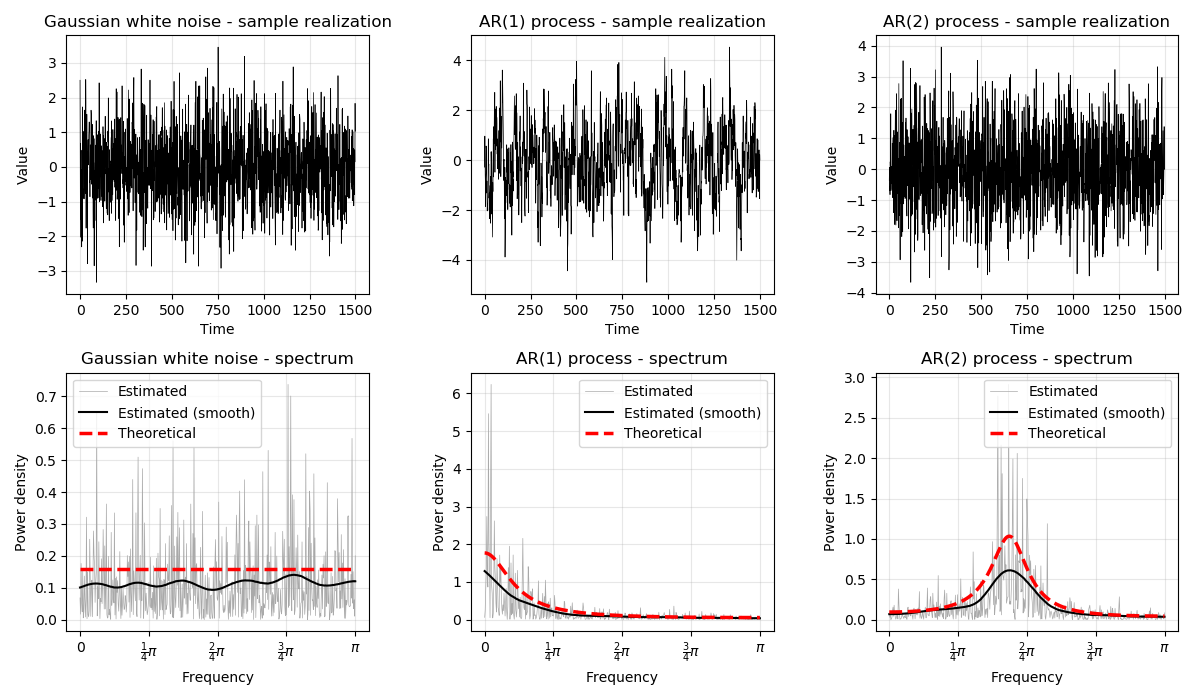
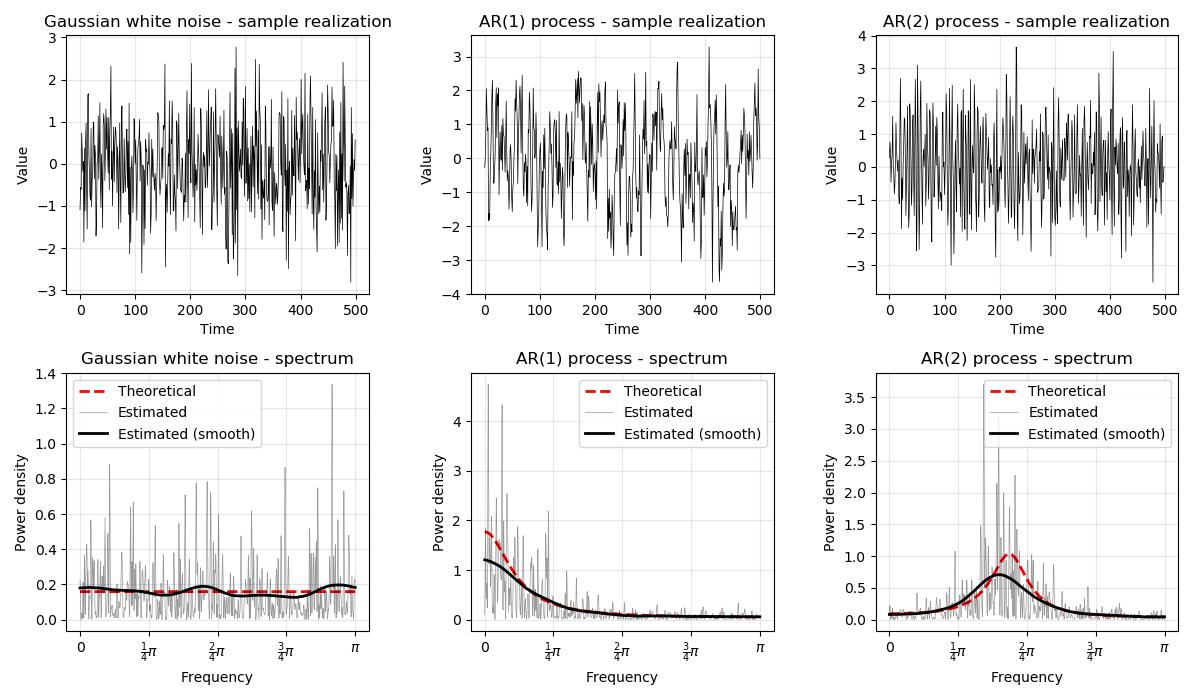
Corrected a problem with the sampling frequency VS length of the time series

diff --git a/tests/t_spectrum.py b/tests/t_spectrum.py
@@ -15,7 +15,8 @@ def gen_ar(T, coeffs):
 
 
 def main():
-    T = 1500
+    T = 500
+    N = 2048
     e = np.zeros((T,))
 
     for t in range(T):
@@ -26,16 +27,16 @@ def main():
     x = gen_ar(T, [a1])
     y = gen_ar(T, [b1, b2])
 
-    w, method = 101, 'hamming'
+    w, method = 249, 'hamming'
 
-    se = ts.spectrum(e, smooth=False)
-    sx = ts.spectrum(x, smooth=False)
-    sy = ts.spectrum(y, smooth=False)
-    sse = ts.spectrum(e, smooth=True, smooth_window=w, smooth_method=method)
-    ssx = ts.spectrum(x, smooth=True, smooth_window=w, smooth_method=method)
-    ssy = ts.spectrum(y, smooth=True, smooth_window=w, smooth_method=method)
+    se = ts.spectrum(e,  num=N, smooth=False)
+    sx = ts.spectrum(x,  num=N, smooth=False)
+    sy = ts.spectrum(y,  num=N, smooth=False)
+    sse = ts.spectrum(e, num=N, smooth=True, smooth_window=w, smooth_method=method)
+    ssx = ts.spectrum(x, num=N, smooth=True, smooth_window=w, smooth_method=method)
+    ssy = ts.spectrum(y, num=N, smooth=True, smooth_window=w, smooth_method=method)
 
-    freq = np.fft.rfftfreq(1024, d=1/(2*np.pi))
+    freq = np.fft.rfftfreq(N, d=1/(2*np.pi))
 
     tse = (1 / (2 * np.pi)) * np.ones(freq.shape)
     tsx = (1 / (2 * np.pi)) * (1 / (1 + a1 ** 2 - 2 * a1 * np.cos(freq)))
@@ -66,9 +67,9 @@ def main():
     ax[0, 2].set_ylabel('Value')
     ax[0, 2].set_title('AR(2) process - sample realization')
 
-    ax[1, 0].plot(freq, se, color='darkgray', linewidth=0.5, label='Estimated')
-    ax[1, 0].plot(freq, sse, color='black', linewidth=1.5, label='Estimated (smooth)')
-    ax[1, 0].plot(freq, tse, color='red', linewidth=2.5, linestyle='dashed', label='Theoretical')
+    ax[1, 0].plot(freq, tse, color='red', linewidth=2, linestyle='dashed', label='Theoretical')
+    ax[1, 0].plot(freq, se, color='black', alpha=0.4, linewidth=0.5, label='Estimated')
+    ax[1, 0].plot(freq, sse, color='black', linewidth=2, label='Estimated (smooth)')
     ax[1, 0].legend()
     ax[1, 0].grid(alpha=0.3)
     ax[1, 0].xaxis.set_ticks(ticks)
@@ -76,9 +77,9 @@ def main():
     ax[1, 0].set_xlabel('Frequency')
     ax[1, 0].set_ylabel('Power density')
     ax[1, 0].set_title('Gaussian white noise - spectrum')
-    ax[1, 1].plot(freq, sx, color='darkgray', linewidth=0.5, label='Estimated')
-    ax[1, 1].plot(freq, ssx, color='black', linewidth=1.5, label='Estimated (smooth)')
-    ax[1, 1].plot(freq, tsx, color='red', linewidth=2.5, linestyle='dashed', label='Theoretical')
+    ax[1, 1].plot(freq, tsx, color='red', linewidth=2, linestyle='dashed', label='Theoretical')
+    ax[1, 1].plot(freq, sx, color='black', alpha=0.4, linewidth=0.5, label='Estimated')
+    ax[1, 1].plot(freq, ssx, color='black', linewidth=2, label='Estimated (smooth)')
     ax[1, 1].legend()
     ax[1, 1].grid(alpha=0.3)
     ax[1, 1].xaxis.set_ticks(ticks)
@@ -86,9 +87,9 @@ def main():
     ax[1, 1].set_xlabel('Frequency')
     ax[1, 1].set_ylabel('Power density')
     ax[1, 1].set_title('AR(1) process - spectrum')
-    ax[1, 2].plot(freq, sy, color='darkgray', linewidth=0.5, label='Estimated')
-    ax[1, 2].plot(freq, ssy, color='black', linewidth=1.5, label='Estimated (smooth)')
-    ax[1, 2].plot(freq, tsy, color='red', linewidth=2.5, linestyle='dashed', label='Theoretical')
+    ax[1, 2].plot(freq, tsy, color='red', linewidth=2, linestyle='dashed', label='Theoretical')
+    ax[1, 2].plot(freq, sy, color='black', alpha=0.4, linewidth=0.5, label='Estimated')
+    ax[1, 2].plot(freq, ssy, color='black', linewidth=2, label='Estimated (smooth)')
     ax[1, 2].legend()
     ax[1, 2].grid(alpha=0.3)
     ax[1, 2].xaxis.set_ticks(ticks)
@@ -98,7 +99,7 @@ def main():
     ax[1, 2].set_title('AR(2) process - spectrum')
 
     plt.tight_layout()
-    fig.savefig('t_spectrum.png')
+    fig.savefig('../t_spectrum.png')
     # plt.show()
 
 
